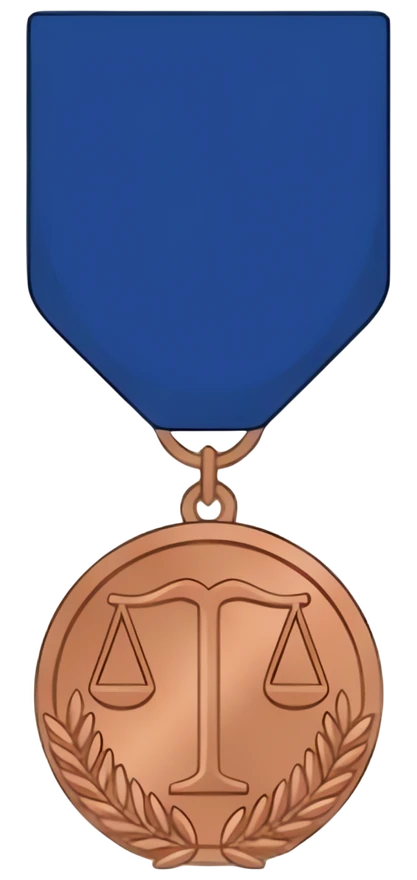
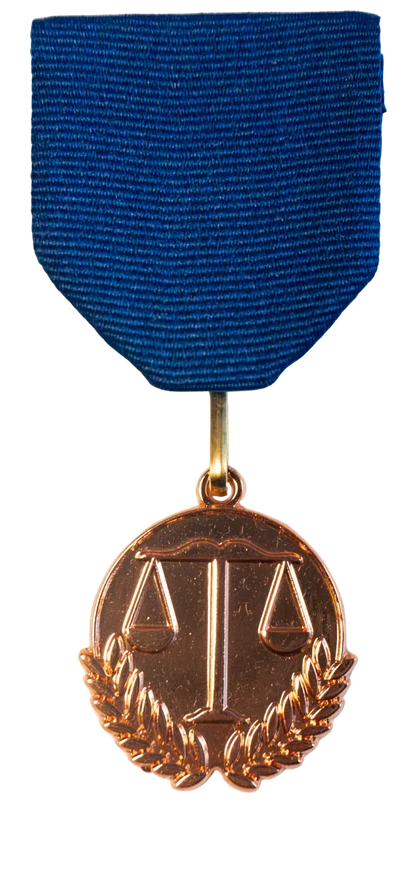
Medaljerna: styrelsens foton, lika stora, och två nya medaljbilder
- 01–04, 06–09, 11 och 12 ersatta med styrelsens foton (2026-10-16). 04 är solen i silver, 07 JF-monogrammet.
- Nya bilder: 13 snöflinga i silver (vitt band) och 14 våg i brons (lila band).
- tools/design/medaljer.py: runda medaljer lika breda, övriga med samma bandbredd, lösa pixlar bort,
  skalning i förmultiplicerad form. Stora foton skalas inte upp.
- 05 och 10 (ritade stjärnor, foton saknas) nedskalade till samma bandbredd.

Claude-Session: https://claude.ai/code/session_01Qd3REijGFx94tBpgrfRgeT

diff --git a/src/lib/medals.ts b/src/lib/medals.ts
@@ -1,9 +1,10 @@
 /**
  * Belöningssystemets ordnar och medaljer.
  *
- * Medaljernas utseende är föreningens egna bilder (förlagan från styrelsen 2026-10-08, 11 och 12 tillkom 2026-10-09).
- * public/assets/medaljer/medalj-01.webp … -12.webp är uppskalade (Real-ESRGAN) och lika stora: alla medaljer är lika
- * höga och ligger på samma yta (417 × 880), så att de står i jämnhöjd bredvid varandra. Se tools/design/medaljer.py.
+ * Medaljernas utseende är föreningens egna bilder i public/assets/medaljer/medalj-NN.webp, alla på samma yta (417 × 880)
+ * och lika stora (runda medaljer lika breda, övriga med samma bandbredd) – se tools/design/medaljer.py.
+ * 2026-10-16 ersattes 01–04, 06–09, 11 och 12 med styrelsens foton, och 13–14 tillkom. 05 och 10 är fortfarande
+ * de ritade förlagorna från 2026-10-08 (foton saknas).
  * I adminpanelen väljer man vilken bild en medalj har. Ett uppladdat foto (fältet image_key) visas i stället om det finns.
  */
 
@@ -31,15 +32,17 @@ export const MEDAL_DESIGNS = {
   "01": { label: "Våg i brons – rött och gult band", width: 417, height: 880 },
   "02": { label: "Våg i brons – rött, vitt och blått band", width: 417, height: 880 },
   "03": { label: "Sol med JFK i guld – gult band", width: 417, height: 880 },
-  "04": { label: "Sol med JFK i guld – gult band (ljusare)", width: 417, height: 880 },
+  "04": { label: "Sol med JFK i silver – gult band", width: 417, height: 880 },
   "05": { label: "Stjärna i brons – rött band", width: 417, height: 880 },
   "06": { label: "Våg i brons – grönt band", width: 417, height: 880 },
-  "07": { label: "Silver med emaljmärke – vitt och blått band", width: 417, height: 880 },
+  "07": { label: "JF-monogram i silver – blått och vitt band", width: 417, height: 880 },
   "08": { label: "Våg i brons – rött band", width: 417, height: 880 },
   "09": { label: "Våg i brons – blått band", width: 417, height: 880 },
   "10": { label: "Stjärna i brons – blått band", width: 417, height: 880 },
   "11": { label: "Stjärna i silver med JK – blått och rött band", width: 417, height: 880 },
   "12": { label: "Våg i guld – gult band", width: 417, height: 880 },
+  "13": { label: "Snöflinga i silver med JFK – vitt band", width: 417, height: 880 },
+  "14": { label: "Våg i brons – lila band", width: 417, height: 880 },
 } as const;
 export type MedalDesign = keyof typeof MEDAL_DESIGNS;
 
@@ -48,7 +51,7 @@ export function medalDesign(v: unknown): MedalDesign {
 }
 
 /** Höj när bilderna byts ut – filerna i /assets cachas ett år. */
-const MEDAL_IMAGES_VERSION = "5";
+const MEDAL_IMAGES_VERSION = "6";
 export const medalImageUrl = (design: unknown) => `/assets/medaljer/medalj-${medalDesign(design)}.webp?v=${MEDAL_IMAGES_VERSION}`;
 
 export const medalQuery = {

diff --git a/tools/design/medaljer.py b/tools/design/medaljer.py
@@ -1,52 +1,107 @@
-"""Gör medaljbilderna lika stora och skarpare.
+"""Gör medaljbilderna lika stora.
 
-  python3 tools/design/medaljer.py <modell.pth> <källmapp> <utmapp>
+  python3 tools/design/medaljer.py <källmapp> <utmapp> [modell.pth]
 
-Källmappen innehåller medalj-01.png … medalj-NN.png (styrelsens original, genomskinlig bakgrund).
-För varje medalj:
-  1. skalas bilden upp 4x med Real-ESRGAN (realesr-animevideov3, ritad stil) – ren numpy, se esr.py,
-  2. beskärs till själva medaljen,
-  3. skalas till samma höjd (bandets överkant till medaljens nederkant) – då ligger banden och medaljerna
-     i jämnhöjd när de står bredvid varandra,
-  4. placeras centrerat på en lika stor yta för alla,
-och sparas som WebP med genomskinlighet i dubbel upplösning (skarpt även på mobil/retina).
+Källmappen innehåller medalj-NN.png (styrelsens original med genomskinlig bakgrund). För varje medalj:
+  1. små originalbilder (lägre än 1200 px, t.ex. de ritade förlagorna från 2026-10-08) skalas upp 4x med
+     Real-ESRGAN (realesr-animevideov3, se esr.py) – kräver modellfilen som tredje argument.
+     Fotona från 2026-10-16 (1080 × 1920) är stora nog och skalas bara ned,
+  2. lösa småpixlar runt medaljen (rester från friläggningen) tas bort,
+  3. bilden beskärs och skalas så att medaljerna blir lika stora: runda medaljer (ROUND) får samma
+     medaljbredd, övriga former (stjärna, snöflinga, monogram) samma bandbredd som de runda. Fotona är tagna
+     på olika avstånd och banden draperar olika långt, så samma höjd ger olika stora medaljer,
+  4. placeras centrerat på en lika stor yta för alla (WIDTH × HEIGHT + PAD) med bandets överkant i samma höjd,
+och sparas som WebP med genomskinlighet. Färgerna ändras inte.
 
 Modellen: https://github.com/xinntao/Real-ESRGAN/releases/download/v0.2.5.0/realesr-animevideov3.pth
 """
 import sys
 from pathlib import Path
 
+import numpy as np
 from PIL import Image
-
-sys.path.insert(0, str(Path(__file__).parent))
-import esr  # noqa: E402
+from scipy import ndimage
 
 HEIGHT = 860  # medaljens höjd i px i den färdiga bilden (ungefär tre gånger visningsstorleken)
+WIDTH = 417   # ytans bredd – samma för alla bilder (src/lib/medals.ts räknar med 417 × 880)
 PAD = 10
+# Runda medaljer: våg och lagerkrans (brons/guld) och solen med JFK. Övriga skalas efter bandets bredd.
+ROUND = {"01", "02", "03", "04", "06", "08", "09", "12", "14"}
 
 
-def main(model: str, src: str, dst: str) -> None:
-    sd = esr.load_pth(model)
+def clean(im: Image.Image) -> Image.Image:
+    """Tar bort lösa småbitar i alfakanalen (allt som inte hänger ihop med medaljen och är litet)."""
+    a = np.array(im.getchannel("A"))
+    mask = a > 24
+    lab, n = ndimage.label(mask, structure=np.ones((3, 3)))
+    if n > 1:
+        sizes = ndimage.sum(mask, lab, range(1, n + 1))
+        keep = np.isin(lab, [i + 1 for i, s in enumerate(sizes) if s >= sizes.max() * 0.004])
+        # Behåll halvgenomskinliga kantpixlar intill det som behålls
+        keep = ndimage.binary_dilation(keep, iterations=2)
+        a = np.where(keep, a, 0).astype(np.uint8)
+    out = im.copy()
+    out.putalpha(Image.fromarray(a))
+    return out
+
+
+def widths(im: Image.Image) -> tuple[float, float]:
+    """(bandets bredd, medaljens bredd) i px för en beskuren bild: medianbredden i bandets övre del och
+    den största bredden i nedre 40 % (medaljen)."""
+    a = np.array(im.getchannel("A")) > 128
+    h = a.shape[0]
+
+    def w(y: int) -> int:
+        xs = np.flatnonzero(a[y])
+        return int(xs[-1] - xs[0] + 1) if xs.size else 0
+
+    ribbon = float(np.median([w(y) for y in range(int(h * 0.03), int(h * 0.2))]))
+    medal = float(max(w(y) for y in range(int(h * 0.6), h)))
+    return ribbon, medal
+
+
+def main(src: str, dst: str, model: str | None = None) -> None:
     out = Path(dst)
     out.mkdir(parents=True, exist_ok=True)
+    sd = None
     items = []
     for f in sorted(Path(src).glob("medalj-*.png")):
-        tmp = out / (f.stem + ".x4.png")
-        esr.upscale(sd, str(f), str(tmp))
-        im = Image.open(tmp).convert("RGBA")
-        tmp.unlink()
-        im = im.crop(im.getchannel("A").point(lambda v: 255 if v > 8 else 0).getbbox())
-        im = im.resize((round(im.width * HEIGHT / im.height), HEIGHT), Image.LANCZOS)
-        items.append((f.stem, im))
-        print(f.stem, im.size)
-    w = max(i.width for _, i in items) + 2 * PAD
-    h = max(i.height for _, i in items) + 2 * PAD
-    for name, im in items:
-        canvas = Image.new("RGBA", (w, h), (0, 0, 0, 0))
-        canvas.alpha_composite(im, ((w - im.width) // 2, PAD))
-        canvas.save(out / f"{name}.webp", "WEBP", quality=90, method=6)
-    print("yta", w, h)
+        im = Image.open(f).convert("RGBA")
+        if im.height < 1200:
+            import esr  # noqa: PLC0415 – behövs bara för de små ritade förlagorna
+
+            sd = sd or esr.load_pth(model)
+            tmp = out / (f.stem + ".x4.png")
+            esr.upscale(sd, str(f), str(tmp))
+            im = Image.open(tmp).convert("RGBA")
+            tmp.unlink()
+        im = clean(im)
+        im = im.crop(im.getchannel("A").point(lambda v: 255 if v > 24 else 0).getbbox())
+        items.append((f.stem, im, *widths(im)))
+
+    # Mål: alla runda medaljer lika breda; övriga får de runda medaljernas (genomsnittliga) bandbredd i förhållande
+    # till medaljbredden. Skalan väljs så att den största bilden precis får plats på ytan.
+    round_items = [i for i in items if i[0].split("-")[1] in ROUND]
+    band_per_medal = float(np.mean([r / m for _, _, r, m in round_items])) if round_items else 1.0
+
+    def rel(item) -> float:  # bildens storlek uttryckt i "medaljbredder"
+        name, im, ribbon, medal = item
+        unit = medal if name.split("-")[1] in ROUND else ribbon / band_per_medal
+        return 1.0 / unit
+
+    target = min(min(HEIGHT / (im.height * rel(i)), (WIDTH - 2 * PAD) / (im.width * rel(i))) for i in items for im in [i[1]])
+    for item in items:
+        name, im = item[0], item[1]
+        s = target * rel(item)
+        w, h = round(im.width * s), round(im.height * s)
+        # Skala i förmultiplicerad form så att kanterna inte får mörka eller ljusa ränder
+        small = im.convert("RGBa").resize((w, h), Image.LANCZOS).convert("RGBA")
+        canvas = Image.new("RGBA", (WIDTH, HEIGHT + 2 * PAD), (0, 0, 0, 0))
+        canvas.alpha_composite(small, ((WIDTH - w) // 2, PAD))
+        canvas.save(out / f"{name}.webp", "WEBP", quality=90, alpha_quality=100, method=6)
+        print(name, (w, h), "medaljbredd", round(item[3] * s), "bandbredd", round(item[2] * s))
 
 
 if __name__ == "__main__":
+    sys.path.insert(0, str(Path(__file__).parent))
     main(*sys.argv[1:4])

diff --git a/tools/e2e/test_honors.py b/tools/e2e/test_honors.py
@@ -54,7 +54,7 @@ def run() -> None:
         page.wait_for_load_state()
         check(names()[:3] == order[:3], "Flytta ned återställer ordningen")
         page.goto(f"{BASE}/admin/medaljer/ny")
-        check(page.locator('input[name="design"]').count() == 13, "tolv medaljbilder och Egen bild går att välja")
+        check(page.locator('input[name="design"]').count() == 15, "fjorton medaljbilder och Egen bild går att välja")
         # Egen bild utan uppladdad fil ger ett tydligt fel
         page.fill('input[name="name"]', MEDAL)
         page.locator('input[name="design"][value="egen"]').check(force=True)
